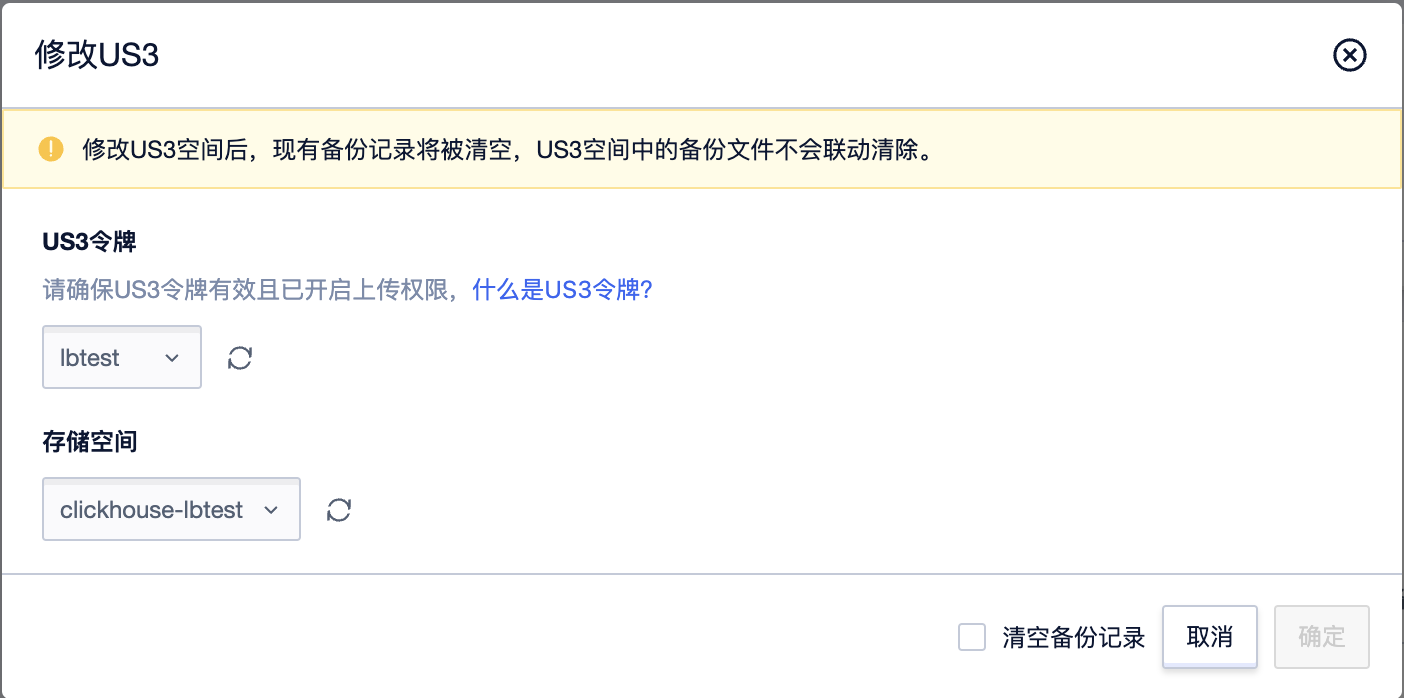
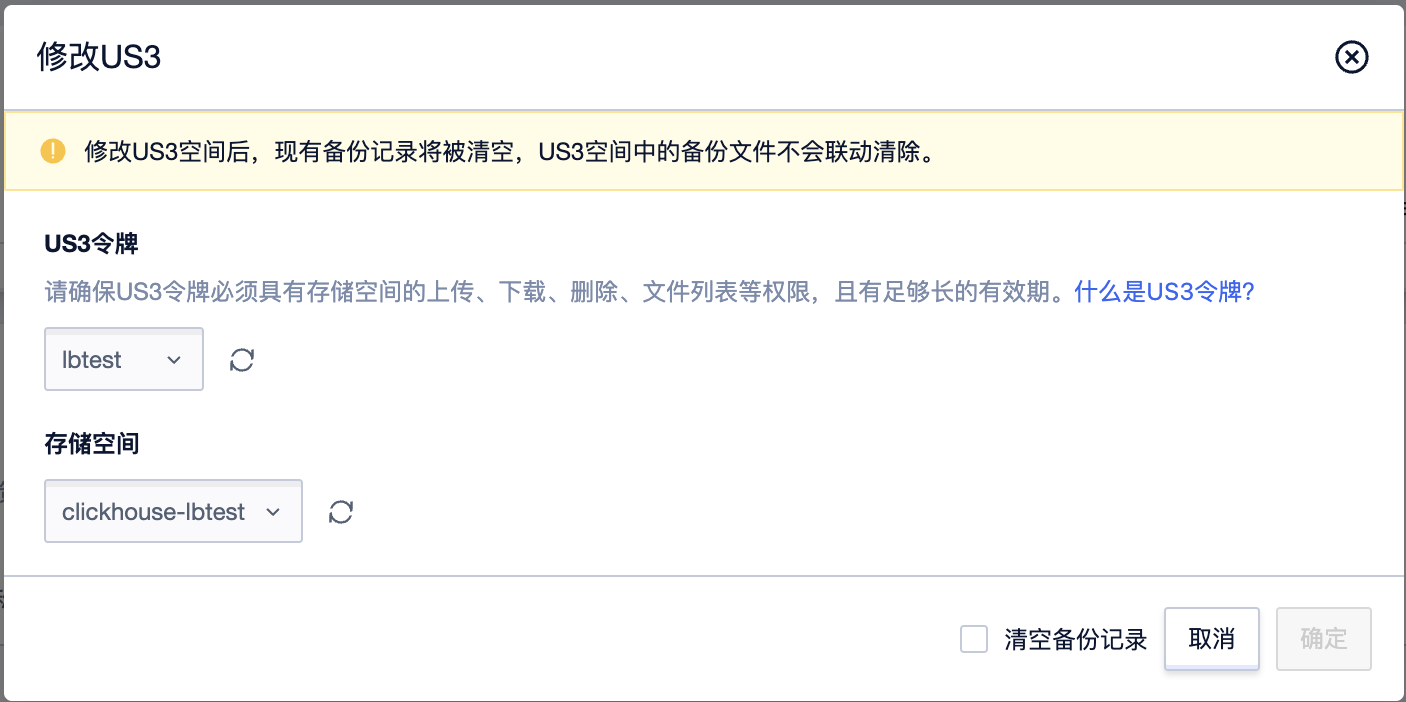
[doc] #5 优化备份文档

diff --git a/operation_guide/backup_restore/backup.md b/operation_guide/backup_restore/backup.md
@@ -10,7 +10,11 @@ UClickhouse 提供数据备份与恢复功能，您可进入[数据仓库 UClick
 
 ![img](/images/guide/backup_restore/backup_init.png)
 
-绑定 US3 存储空间后，会进入备份列表页面。
+绑定 US3 存储空间后，会进入备份列表页面
+
+> 请确保US3令牌必须具有存储空间的上传、下载、删除、文件列表等权限，且有足够长的有效期
+
+![img](/images/guide/backup_restore/backup_bind_us3.png)
 
 ## 备份列表
 
@@ -32,6 +36,8 @@ UClickhouse 提供数据备份与恢复功能，您可进入[数据仓库 UClick
 
 点击【修改】，展示“修改US3”弹框：
 
+> 请确保US3令牌必须具有存储空间的上传、下载、删除、文件列表等权限，且有足够长的有效期
+
 ![img](/images/guide/backup_restore/backup_us3_update_detail.png)
 
 ## 开启自动备份策略
@@ -45,6 +51,8 @@ UClickhouse 提供数据备份与恢复功能，您可进入[数据仓库 UClick
 ![img](/images/guide/backup_restore/backup_auto_policy_close.png)
 
 开启“自动备份策略”后，展示备份周期、备份时间、保留时长等信息。默认每天都会执行备份，可按需选择。最多可保留两年的备份数据，可按实际情况选择保留时长。
+
+在可执行时间段内，备份失败后会重试，超过可执行时间段后，不会再重试。
 
 > 注意：数据备份时会消耗节点资源，建议备份时间选择在业务低峰期执行。
 
@@ -62,3 +70,4 @@ UClickhouse 提供数据备份与恢复功能，您可进入[数据仓库 UClick
 
 > 1. 数据备份时会消耗节点资源，建议在业务低峰期执行手动备份。
 > 2. 手动备份不会自动过期。
+> 3. 同一时间，手动备份与自动备份只能执行其中之一。
